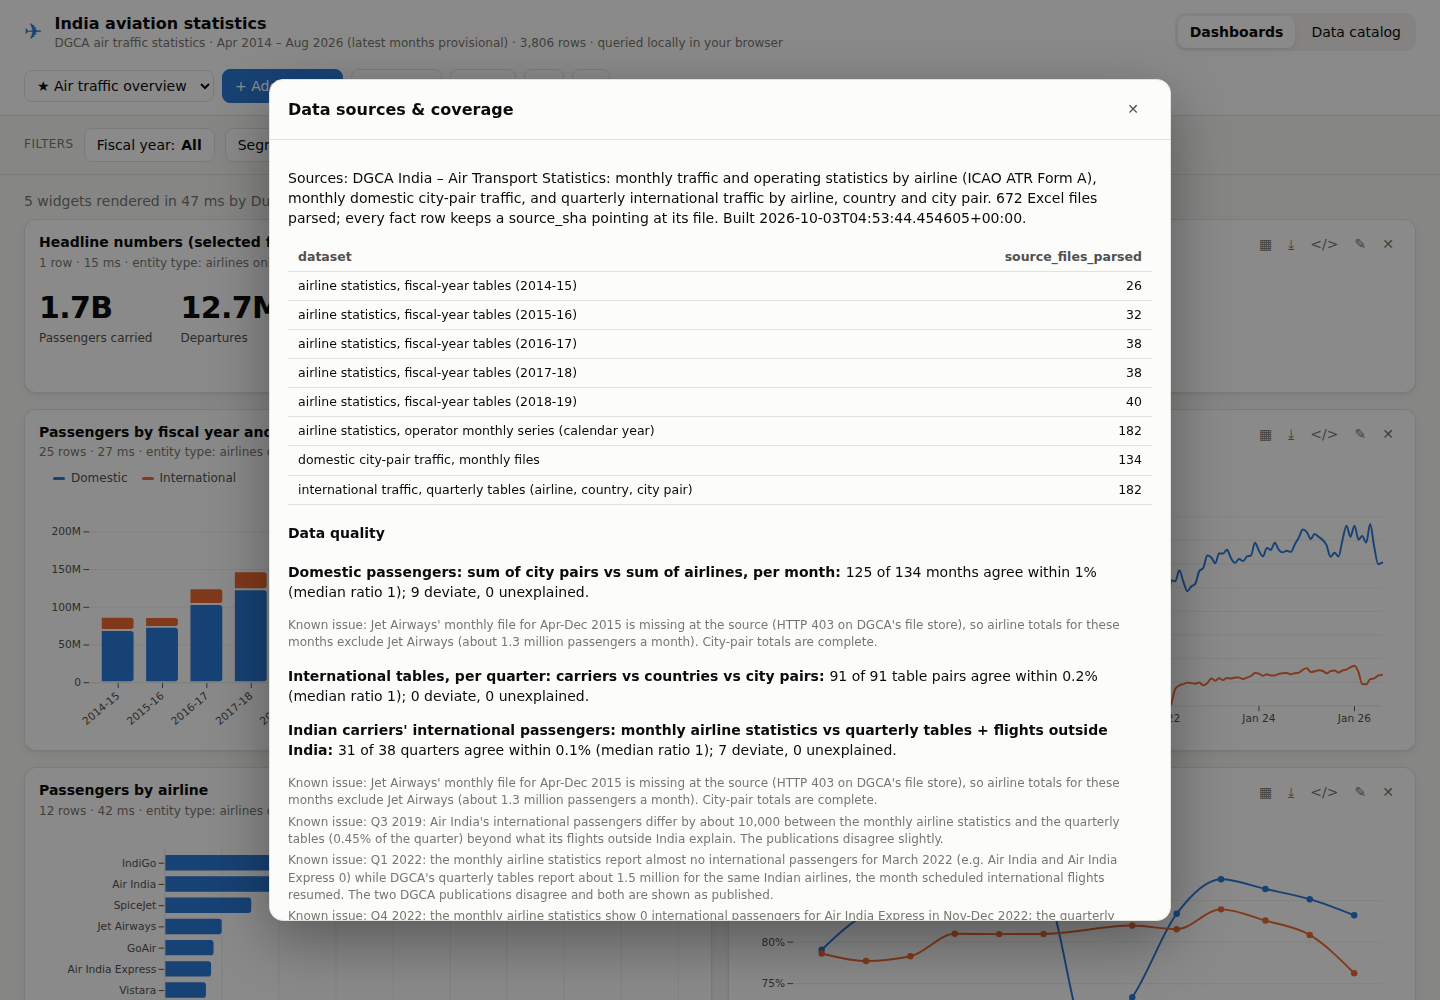
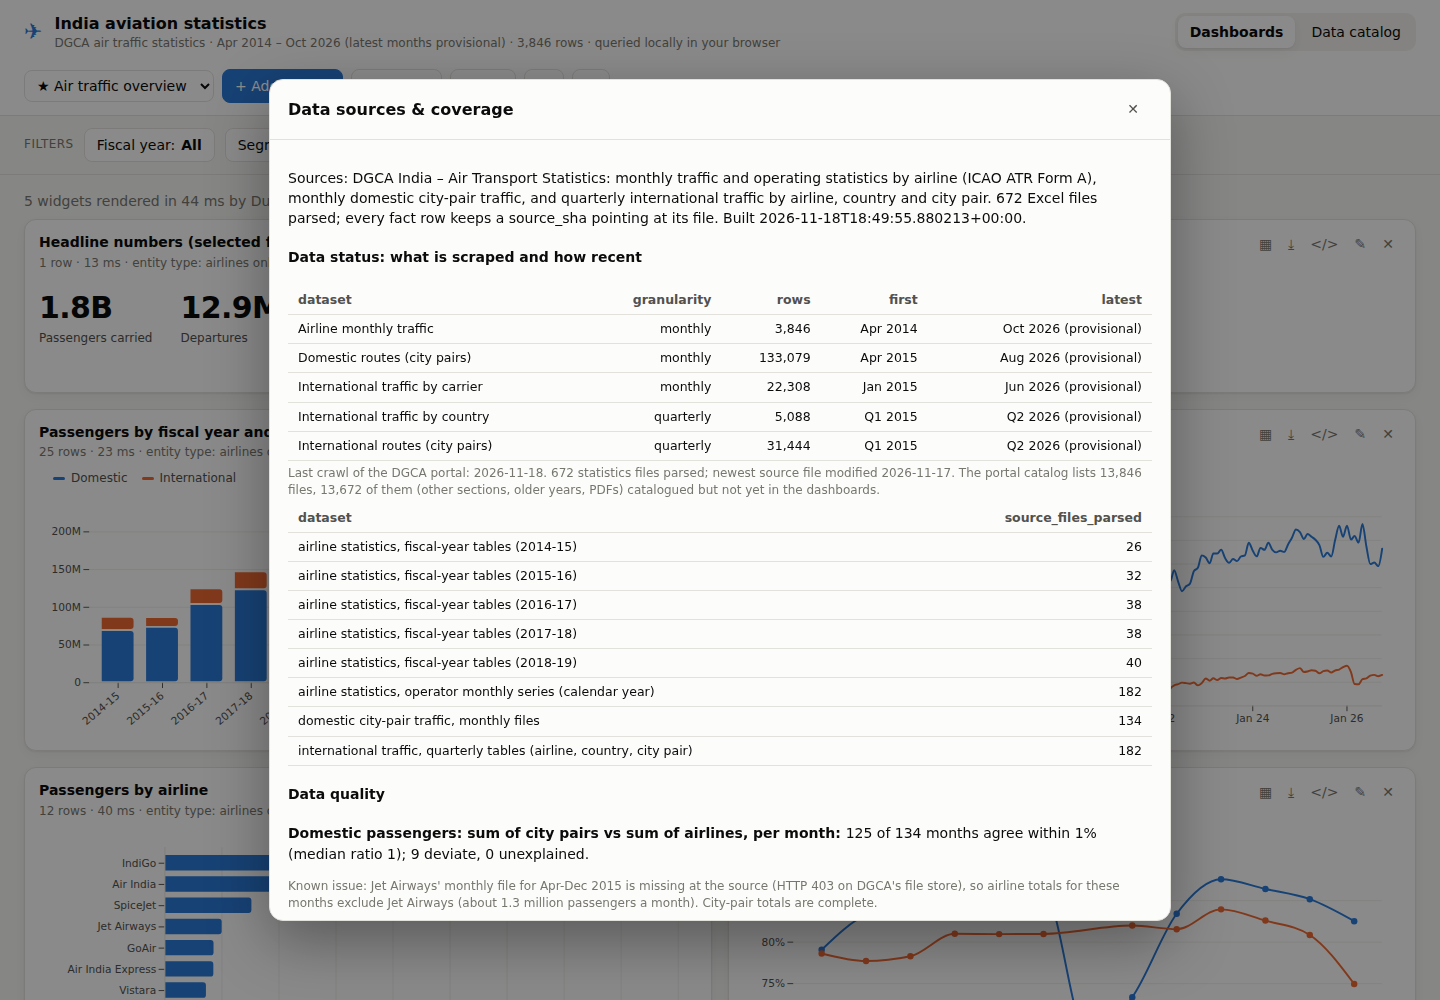
Show data status (datasets scraped, latest period, last crawl) in README and app

diff --git a/web/src/app.js b/web/src/app.js
@@ -401,8 +401,22 @@ async function openSources() {
   const sample = src.filter((_, i) => i % Math.max(1, Math.floor(src.length / 8)) === 0).slice(0, 8).map((s) => el("li", {}, el("a", { href: s.s3_url, target: "_blank", rel: "noopener", textContent: s.table_id ? `${s.fy} · ${s.entity} · table ${s.table_id}` : (s.title || s.s3_url) })));
   openModal("Data sources & coverage", el("div", {},
     el("p", { textContent: `Sources: DGCA India – Air Transport Statistics: monthly traffic and operating statistics by airline (ICAO ATR Form A), monthly domestic city-pair traffic, and quarterly international traffic by airline, country and city pair. ${src.length} Excel files parsed; every fact row keeps a source_sha pointing at its file. Built ${S.meta.built}.` }),
-    t, dataQuality(), el("h4", { textContent: "Sample source files" }), el("ul", {}, ...sample),
+    coveragePanel(), t, dataQuality(), el("h4", { textContent: "Sample source files" }), el("ul", {}, ...sample),
     el("p", { className: "hint", textContent: "Two series are merged: fiscal-year tables (FY2014-15 to FY2018-19, final) and calendar-year monthly statistics by operator (2016 onward, provisional); where they overlap the final figures win and disagreements are logged. Years before FY2014-15, fleet/personnel/financial tables, non-scheduled operations and PDF-only tables are in the catalog but not yet in the dashboards." })));
+}
+
+function coveragePanel() {
+  const cov = S.catalog.coverage;
+  const box = el("div", { id: "coverage" });
+  if (!cov) return box;
+  box.append(el("h4", { textContent: "Data status: what is scraped and how recent" }));
+  box.append(tableFrom(["dataset", "granularity", "rows", "first", "latest"], cov.datasets.map((d) => ({
+    dataset: d.label, granularity: d.granularity, rows: d.rows.toLocaleString(), first: d.first,
+    latest: d.latest + (d.latest_provisional ? " (provisional)" : ""),
+  }))));
+  const p = cov.portal || {};
+  box.append(el("p", { className: "hint", textContent: `Last crawl of the DGCA portal: ${(cov.last_crawled || "unknown").slice(0, 10)}. ${cov.source_files_parsed} statistics files parsed; newest source file modified ${cov.newest_source_modified || "unknown"}. The portal catalog lists ${(p.files || 0).toLocaleString()} files, ${(p.files_not_in_dashboards || 0).toLocaleString()} of them (other sections, older years, PDFs) catalogued but not yet in the dashboards.` }));
+  return box;
 }
 
 function dataQuality() {

diff --git a/src/dgca_stats/publish/coverage.py b/src/dgca_stats/publish/coverage.py
@@ -1,0 +1,79 @@
+"""Data-status summary: which datasets are scraped and the latest period of each.
+
+Computed at publish time from the published fact tables, stored in catalog.json (shown in the app's
+"Data sources & coverage" panel) and rendered into the README between STATUS markers.
+"""
+from __future__ import annotations
+
+import re
+from pathlib import Path
+
+import pandas as pd
+
+QUARTERLY = {"intl_country_quarterly", "intl_citypair_quarterly"}
+START, END = "<!-- DATA-STATUS:START (generated by `dgca publish`, do not edit) -->", "<!-- DATA-STATUS:END -->"
+
+
+def _label(key: int, quarterly: bool) -> str:
+    y, m = divmod(int(key), 100)
+    if quarterly:    # quarters are keyed by their first month; reported as calendar quarters
+        return f"Q{(m - 1) // 3 + 1} {y}"
+    return pd.Timestamp(y, m, 1).strftime("%b %Y")
+
+
+def compute(tables: dict, facts: dict, man: pd.DataFrame, site_stats: dict, site_files: pd.DataFrame | None) -> dict:
+    ok = man[man.parse_status == "ok"]
+    datasets = []
+    for fid, f in facts.items():
+        t = tables[f["table"]]
+        q = fid in QUARTERLY
+        lo, hi = int(t.period_key.min()), int(t.period_key.max())
+        latest = t[t.period_key == hi]
+        prov = bool(latest["provisional"].any()) if "provisional" in latest else False
+        datasets.append({"id": fid, "label": f["label"], "grain": f["grain"], "rows": int(len(t)),
+                         "first": _label(lo, q), "latest": _label(hi, q), "latest_key": hi,
+                         "latest_provisional": prov, "granularity": "quarterly" if q else "monthly"})
+    unused = {}
+    if site_files is not None and len(site_files):
+        s = site_files[~site_files.in_dashboards.astype(bool)]
+        unused = {"files_not_in_dashboards": int(len(s)), "files_total": int(len(site_files))}
+    return {
+        "last_crawled": str(man.last_seen.max()) if "last_seen" in man and man.last_seen.notna().any() else None,
+        "source_files_parsed": int(len(ok)),
+        "newest_source_modified": _newest(ok.get("last_modified")),
+        "datasets": datasets,
+        "portal": {**unused, "files": site_stats.get("files"), "tables": site_stats.get("tables")},
+    }
+
+
+def _newest(s) -> str | None:
+    if s is None:
+        return None
+    d = pd.to_datetime(s, errors="coerce", utc=True).dropna()
+    return d.max().strftime("%Y-%m-%d") if len(d) else None
+
+
+def markdown(cov: dict) -> str:
+    rows = ["| Dataset | Grain | Rows | First | Latest period |", "|---|---|---:|---|---|"]
+    for d in cov["datasets"]:
+        late = d["latest"] + (" (provisional)" if d["latest_provisional"] else "")
+        rows.append(f"| `{d['id']}` | {d['grain'].replace('|', '/')} | {d['rows']:,} | {d['first']} | **{late}** |")
+    crawled = (cov["last_crawled"] or "?")[:10]
+    p = cov["portal"]
+    tail = (f"\nLast crawl of the DGCA portal: **{crawled}**; {cov['source_files_parsed']} statistics files parsed"
+            f", newest source file modified {cov['newest_source_modified']}. "
+            f"The portal catalog lists {p.get('files', 0):,} files, of which {p.get('files_not_in_dashboards', 0):,} "
+            "(fleet, personnel, financial, older years, PDFs, other sections) are catalogued but not yet in the dashboards.\n")
+    return "\n".join(rows) + "\n" + tail
+
+
+def update_readme(path: Path, cov: dict) -> bool:
+    s = path.read_text()
+    block = f"{START}\n{markdown(cov)}{END}"
+    if START in s:
+        new = re.sub(re.escape(START) + r".*?" + re.escape(END), lambda _: block, s, flags=re.S)
+    else:
+        return False
+    if new != s:
+        path.write_text(new)
+    return True

diff --git a/src/dgca_stats/publish/build.py b/src/dgca_stats/publish/build.py
@@ -9,6 +9,7 @@ import yaml
 from .. import config
 from ..parse.registry import dataset_for
 from . import checks as checks_mod
+from . import coverage
 from . import intl as intl_pub
 from . import places
 from . import site as site_pub
@@ -215,6 +216,9 @@ def build(man: pd.DataFrame) -> dict:
     # --- semantic catalog (validated against what we actually wrote)
     catalog = make_catalog(tables, version)
     catalog["site"] = site_stats
+    sf = out / "site_files.parquet"
+    catalog["coverage"] = coverage.compute(tables, catalog["facts"], man, site_stats, pd.read_parquet(sf) if sf.exists() else None)
+    coverage.update_readme(config.ROOT / "README.md", catalog["coverage"])
     known = yaml.safe_load((config.ROOT / "semantic" / "semantic.yaml").read_text()).get("known_issues", [])
     catalog["known_issues"] = known
     catalog["checks"] = []

diff --git a/tests/test_pipeline.py b/tests/test_pipeline.py
@@ -154,7 +154,7 @@ def test_known_values_from_both_source_series():
     assert ig[(ig.fy == "2017-18") & (ig.segment == "Domestic")].pax.sum() == 48_955_983
     # calendar-year series (provisional): IndiGo 2026 year-to-date domestic = the sheet's TOTAL row
     cal26 = ig[(ig.calendar_year == 2026) & (ig.segment == "Domestic")]
-    assert cal26.pax.sum() == 71_551_696 and cal26.provisional.all() and cal26.period.max().month == 8
+    assert cal26.pax.sum() == 88_086_737 and cal26.provisional.all() and cal26.period.max().month == 10
 
 
 def test_series_are_continuous_and_new_operators_present():

diff --git a/README.md b/README.md
@@ -19,13 +19,21 @@ BI-style dashboard that runs **entirely in the browser**: no backend, no API key
 
 ## Datasets
 
-| Fact table | Grain | Coverage |
-|---|---|---|
-| `airline_monthly` | airline x month x domestic/international: passengers, departures, hours, km, load factor, cargo | Apr 2014 - Aug 2026, 32 operators |
-| `route_monthly` | directed city pair x month (domestic): passengers, freight, mail | Apr 2015 - Aug 2026, 133k rows, 147 places, 1.6k routes |
-| `intl_airline_monthly` | carrier x month x direction: international passengers and freight (Indian and foreign carriers) | Jan 2015 onward, from the quarterly tables |
-| `intl_country_quarterly` | country x carrier x direction x quarter | Q1 2015 - Q2 2026 (46 quarters) |
-| `intl_citypair_quarterly` | international city pair x carrier x quarter | Q1 2015 - Q2 2026 |
+### Data status
+
+<!-- DATA-STATUS:START (generated by `dgca publish`, do not edit) -->
+| Dataset | Grain | Rows | First | Latest period |
+|---|---|---:|---|---|
+| `airline_monthly` | airline x fiscal month x segment (domestic / international) | 3,846 | Apr 2014 | **Oct 2026 (provisional)** |
+| `route_monthly` | directed city pair x month (scheduled domestic services) | 133,079 | Apr 2015 | **Aug 2026 (provisional)** |
+| `intl_airline_monthly` | carrier x month x direction (scheduled international services) | 22,308 | Jan 2015 | **Jun 2026 (provisional)** |
+| `intl_country_quarterly` | country x quarter x direction (scheduled international services) | 5,088 | Q1 2015 | **Q2 2026 (provisional)** |
+| `intl_citypair_quarterly` | directed city pair x quarter x direction (scheduled international services) | 31,444 | Q1 2015 | **Q2 2026 (provisional)** |
+
+Last crawl of the DGCA portal: **2026-11-18**; 672 statistics files parsed, newest source file modified 2026-11-17. The portal catalog lists 13,846 files, of which 13,672 (fleet, personnel, financial, older years, PDFs, other sections) are catalogued but not yet in the dashboards.
+<!-- DATA-STATUS:END -->
+
+The same table, with the last crawl time, is shown in the app under **Data sources & coverage**.
 
 Dimensions (airline, carrier, country, origin/destination place and city, route, fiscal year/quarter/month, segment, direction)
 and measures (including derived ones such as passenger load factor, always recomputed from sums, never averaged) are
